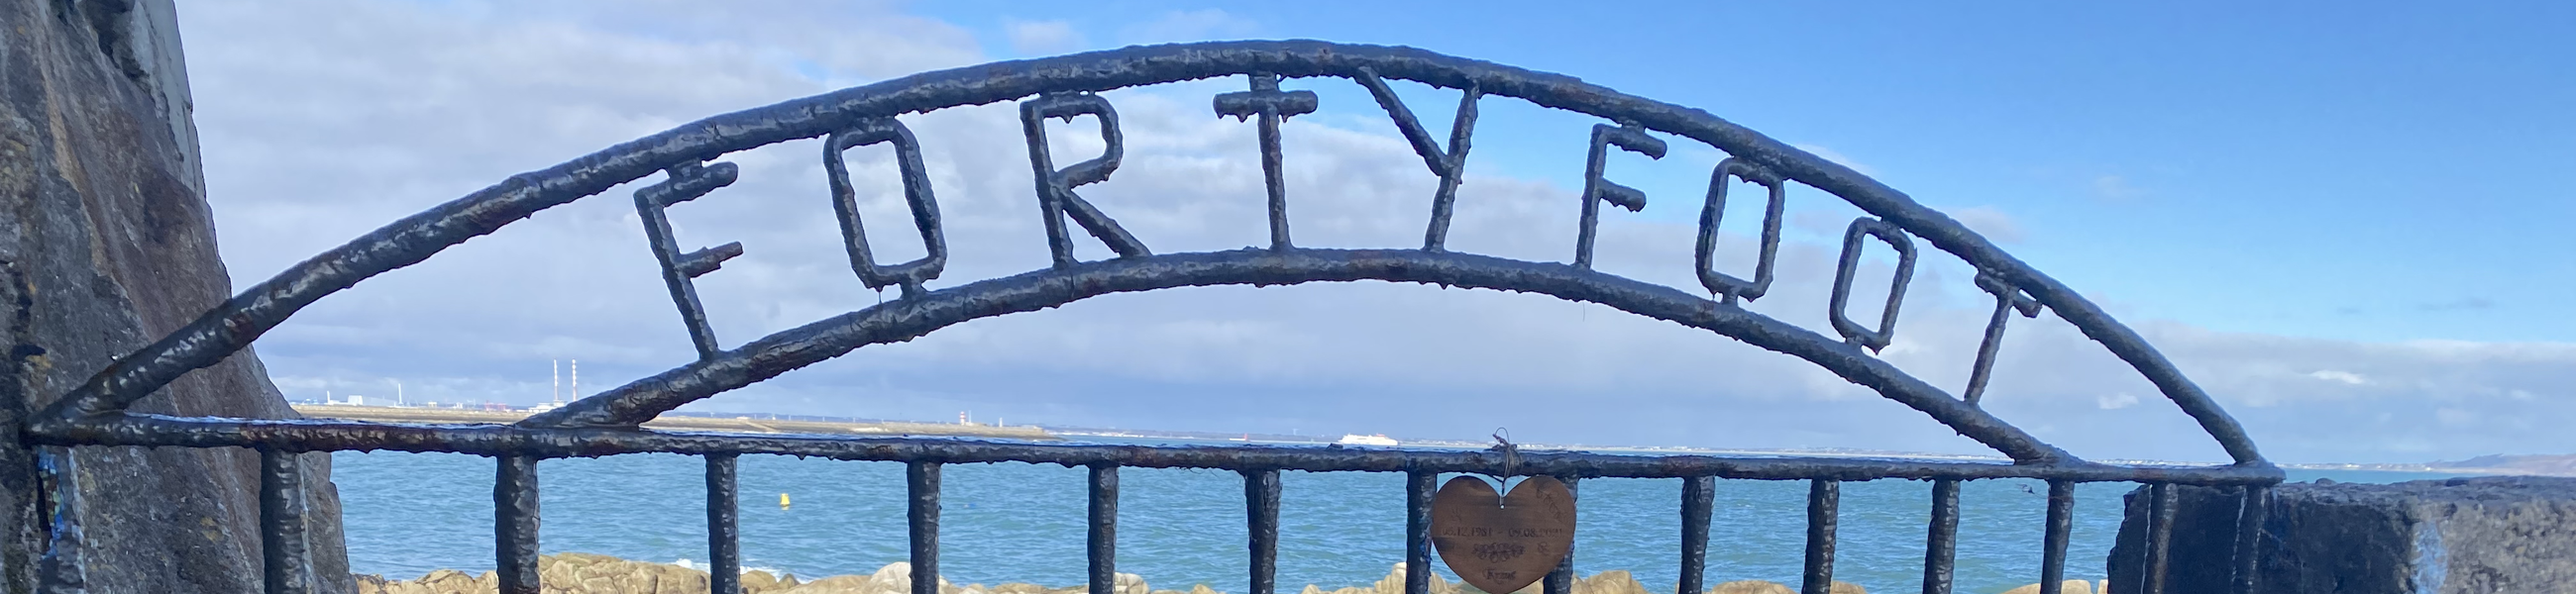
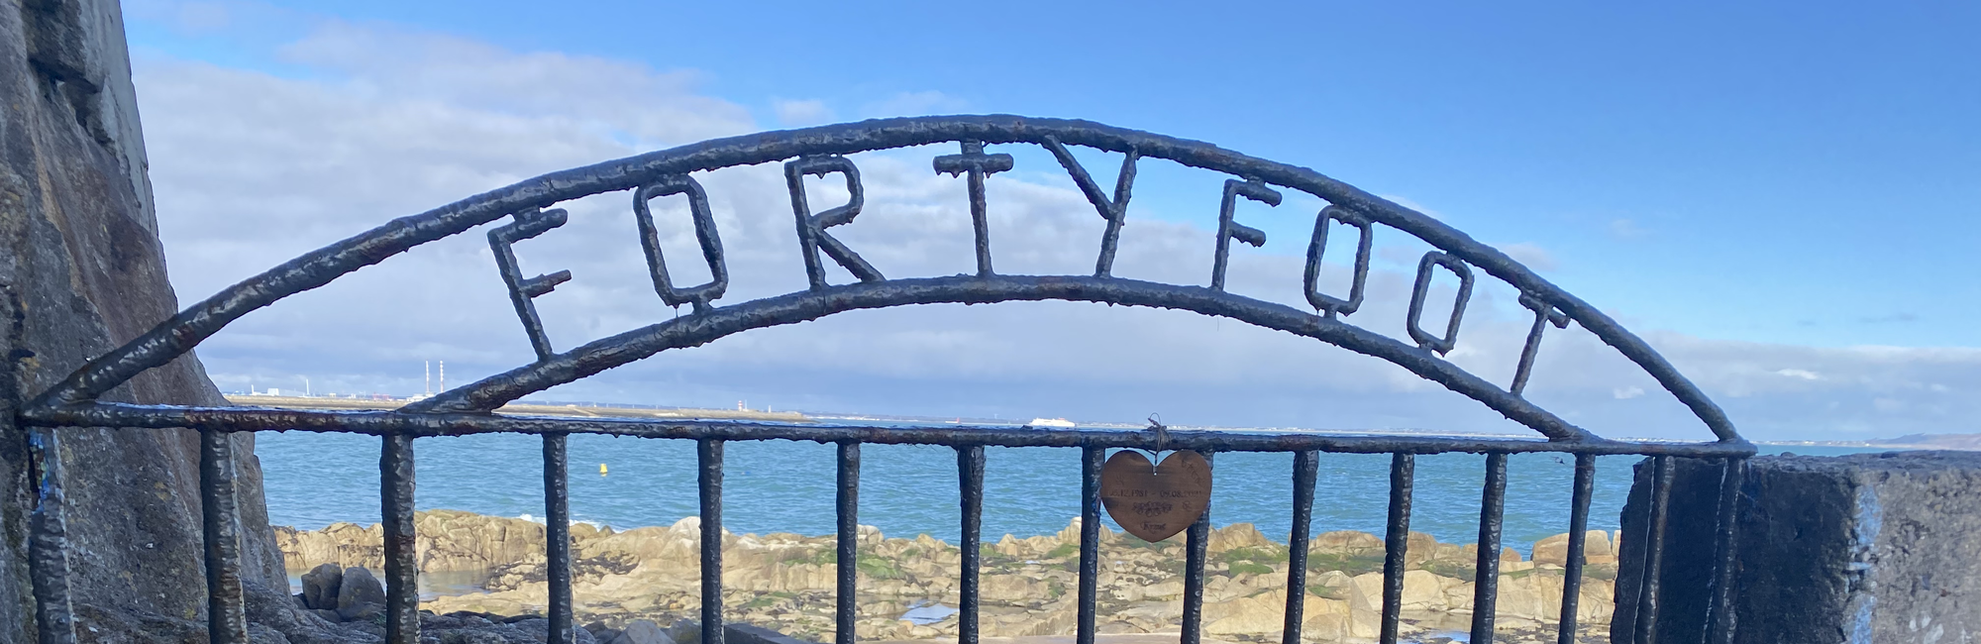
adjusted hero image size, added sub heading and introductory paragraph to habit section

diff --git a/index.html b/index.html
@@ -40,8 +40,7 @@
     <!-- Hero Image Section -->
     <section id="hero-container">
         <div id="hero-image">
-            <!-- Cover text -->
-            <p>"I always leave feeling happy!"</p>
+
 
         </div>
 
@@ -49,8 +48,16 @@
 
     <!-- Healthy Habit Section -->
     <section id="healthy-container">
+        
+        <!-- Cover text -->
+        <div id="healthy-title">
+            <h2>Get the Healthy Habit</h2>
+            <h3>"I always leave feeling happy!"</h3>
 
-        <h2 id="healthy-title">Get the Healthy Habit</h2>
+
+        </div>   
+
+        <p id="healthy-intro">The 40 Foot, in Sandycove, Dublin, Ireland, has been a mecca for sea swimmers for over 250 years. We'd like to share with you why thousands of people enjoy a dip here every year and invite you to become one of "The Regulars" </p>
 
         <div class="sub-cont flex-parent">
 
@@ -96,7 +103,7 @@
 
         <div class="sub-cont flex-parent flex-reverse">
 
-            <img src="https://unsplash.it/500/500" alt="sample">
+            <img src="/assets/images/seal.png" alt="Seal in sea surrounded with sea-weed">
         
             <div class="one-third flex-text-parent">
    

diff --git a/assets/css/style.css b/assets/css/style.css
@@ -78,8 +78,9 @@ header {
 }
 
 #hero-image {
-    height: 600px;
+    height: 650px;
     width: 100%;
+
     /* background: url(https://unsplash.it/2000/600) no-repeat center center; */
     background: url(../images/40-foot-hero.png) no-repeat center center;
 }
@@ -124,6 +125,12 @@ header {
     text-align: center;
     font-size: 200%;
     padding: 30px 0;
+}
+
+#healthy-intro {
+    text-align: center;
+    font-size: 100%;
+    padding: 0 20% 40px 20%;
 }
 
 .one-third {
